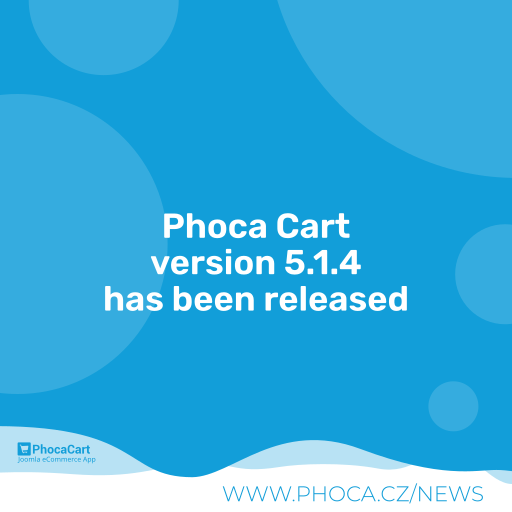
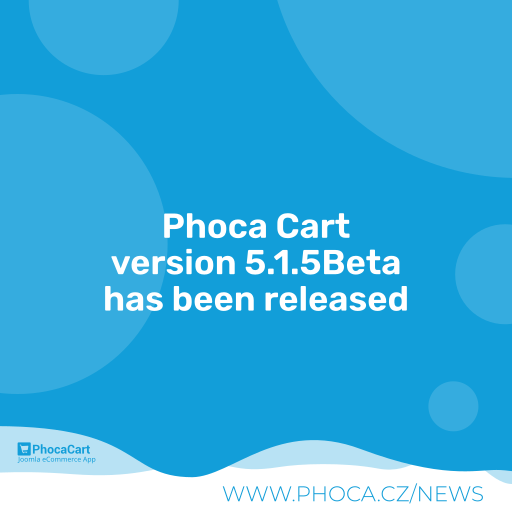
5.1.5Beta

Changed region(s): [[0.2188, 0.4688, 0.7812, 0.5625]]

diff --git a/media/js/phoca/jquery.phocaattribute.min.js b/media/js/phoca/jquery.phocaattribute.min.js
@@ -1,1 +1,1 @@
-function phChangeAttributeType(e){var t=(e=void 0!==e?".phj"+e:"")+".phjProductAttribute";jQuery(e+".phjCleanAttribute").remove(),jQuery(t).each(function(){let a="",i,r="#phItemAttribute"+jQuery(this).data("attribute-id-name"),u="#phItemHiddenAttribute"+jQuery(this).data("attribute-id-name");var e="#phItemBoxAttribute"+jQuery(this).data("attribute-id-name");let d=jQuery(this).data("attribute-type");var s=jQuery(this).data("type-view");let h=jQuery(this).data("type-icon"),n=jQuery(this).data("required");if(3==d?a="phSelectBoxImage":2==d&&(a="phSelectBoxButton"),""!=a){i=u+" ."+a;let t=jQuery(r).attr("name");var c=jQuery('<input type="hidden" name="'+t+'">');c.val(jQuery(r).val()),c.insertAfter(jQuery(r)),jQuery(u).css("display","block"),jQuery(e).css({display:"visible",position:"absolute",clip:"rect(0,0,0,0)"}),jQuery(e).addClass("phj"+s+" phjCleanAttribute"),jQuery(r+" option").each(function(){if(""!=jQuery(this).val()){let e="";3==d?e=jQuery('<div class="'+a+" "+h+'" data-value="'+jQuery(this).val()+'" data-value-alias="'+jQuery(this).data("value-alias")+'" title="'+jQuery(this).text()+'"><img src="'+jQuery(this).data("image")+'" alt="'+jQuery(this).text()+'" /></div>'):2==d&&(e=jQuery('<div class="'+a+" "+h+" color-"+jQuery(this).data("color").replace("#","")+'" style="background-color:'+jQuery(this).data("color")+'" data-value="'+jQuery(this).val()+'" data-value-alias="'+jQuery(this).data("value-alias")+'" title="'+jQuery(this).text()+'">&nbsp;</div>')),jQuery(this).is(":selected")&&e.addClass("on"),jQuery(u).append(e)}}),jQuery(i).on("click",function(e){if(e.preventDefault(),jQuery(this).hasClass("on")){if(1==n)return e.preventDefault(),!1;jQuery(this).removeClass("on"),jQuery('input[name="'+t+'"]').val(""),jQuery(r).val("").change()}else jQuery(i).removeClass("on"),jQuery(this).addClass("on"),jQuery('input[name="'+t+'"]').val(jQuery(this).data("value")),jQuery(r).val(jQuery(this).data("value")).change()})}})}function phAjaxChangeAttributeData(e,t,a,i){var r=Joomla.getOptions("phParamsPC"),u=Joomla.getOptions("phVarsPC").urlCheckoutChangeData,d=[],e=(d.id=e,d.id_item_price="#phItemPriceBox"+t+e,d.id_item_price_gift="#phItemPriceGiftBox"+t+e,d.id_item_stock="#phItemStockBox"+t+e,d.id_item_id="#phItemIdBox"+t+e,d.id_item_name="V"+t+"P"+e,d.product_add_to_cart_item=".phProductAddToCart"+t+e,d.product_add_to_cart_item_icon=".phProductAddToCartIcon"+t+e,d.view=t,d.method_price=r.dynamicChangePrice,d.method_stock=r.dynamicChangeStock,d.method_id=r.dynamicChangeId,d.method_image=r.dynamicChangeImage,d.task="change",d.type="changedata",d.class="ItemQuick"==t||"Pos"==t||"Item"==t?"ph-item-data-box":"ph-category-data-box","id="+d.id+"&"+a+"&"+i+"&class="+d.class+"&typeview="+d.view);phDoRequestMethods(u,e,d)}function phSetAttributeUrl(u){var e=Joomla.getOptions("phParamsPC"),t=Joomla.getOptions("phVarsPC");if(1!=e.dynamicChangeUrlAttributes)return!1;if("item"!=t.view)return!1;t=jQuery(location).attr("hash"),t=phReplaceAll("#","",t);let d=phUrlDeParam(t);t=".phjProductAttribute";let s="",h="",n="";var a=jQuery(t).closest("form").find("input[name=return]");let i="";void 0!==a.val()&&""!=a.val()&&(i=Base64.decode(a.val())),jQuery(t).each(function(){""!=s&&(s+="&");let e=this.id;var t=jQuery(this).data("alias");let a="",i="",r="#phItemHiddenAttribute"+jQuery(this).data("attribute-id-name");1==u?(void 0!==jQuery(this).find(":selected").data("value-alias")&&(a=jQuery(this).find(":selected").data("value-alias"),s=s+"a["+jQuery(this).data("alias")+"]="+a),void 0!==jQuery(this).find(":input:checked").data("value-alias")&&(jQuery.each(jQuery(this).find(":input:checked"),function(){""!=i&&(i+=","),i+=jQuery(this).data("value-alias")}),""!=i)&&(s=s+"a["+jQuery(this).data("alias")+"]="+i)):(void 0!==d.a&&void 0!==t&&void 0!==d.a[t]?(s=s+"a["+jQuery(this).data("alias")+"]="+d.a[t],void 0===(t=d.a[t].split(","))&&0==t.length||(jQuery("#"+e+" option").removeAttr("selected"),jQuery(r+" div").removeClass("on"),jQuery("#"+e+" input").removeAttr("checked"),jQuery(t).each(function(){jQuery("#"+e+" option[data-value-alias='"+this+"']").attr("selected","selected"),jQuery(r+" div[data-value-alias='"+this+"']").addClass("on"),jQuery("#"+e+" input[data-value-alias='"+this+"']").attr("checked","checked"),jQuery("#"+e+" input[data-value-alias='"+this+"']").parent().addClass("active")}))):(void 0!==jQuery(this).find(":selected").data("value-alias")&&(a=jQuery(this).find(":selected").data("value-alias"),s=s+"a["+jQuery(this).data("alias")+"]="+a),void 0!==jQuery(this).find(":input:checked").data("value-alias")&&(jQuery.each(jQuery(this).find(":input:checked"),function(){""!=i&&(i+=","),i+=jQuery(this).data("value-alias")}),""!=i)&&(s=s+"a["+jQuery(this).data("alias")+"]="+i)),h=jQuery(this).data("type-view"),n=jQuery(this).data("product-id"))}),(0!=e.dynamicChangePrice||0!=e.dynamicChangeStock||0!=e.dynamicChangeId||0!=e.dynamicChangeImage&&1!=e.dynamicChangeImage)&&(t=".phjAddToCartV"+h+"P"+n,e=jQuery(t).find("select").serialize(),t=jQuery(t).find(":checkbox").serialize(),phAjaxChangeAttributeData(n,h,e,t)),s.lastIndexOf("&")==s.length-1&&(s=s.slice(0,-1)),(0==u&&""!=s||1==u)&&(s="#"+s,""!=i&&a.val(Base64.encode(i+s)),window.history.pushState({},"",s))}jQuery(document).ready(function(){phChangeAttributeType(),phSetAttributeUrl(0);jQuery(document).on("change","select.phjProductAttribute",function(e){var t=Joomla.getOptions("phParamsPC");if(0==t.dynamicChangePrice&&0==t.dynamicChangeStock&&0==t.dynamicChangeId&&(0==t.dynamicChangeImage||1==t.dynamicChangeImage))return 1==t.dynamicChangeUrlAttributes&&phSetAttributeUrl(1),!1;var t=jQuery(this).data("type-view"),a=jQuery(this).data("product-id"),i=".phjAddToCartV"+t+"P"+a;phAjaxChangeAttributeData(a,t,jQuery(i).find("select").serialize(),jQuery(i).find(":checkbox").serialize()),phSetAttributeUrl(1)});var e=".ph-checkbox-attribute.phjProductAttribute";jQuery(document).on("click",e,function(e){var t=Joomla.getOptions("phParamsPC");if("LABEL"!==e.target.tagName.toUpperCase()){if("svg"==t.theme||"svg"==t.iconType){if("SVG"===e.target.tagName.toUpperCase()||"IMG"===e.target.tagName.toUpperCase())return}else if(!("bs4"!=t.theme&&"bs5"!=t.theme||"SPAN"!==e.target.tagName.toUpperCase()&&"IMG"!==e.target.tagName.toUpperCase()))return;var t=jQuery(this).data("required"),a="#"+jQuery(this).attr("id")+" input:checked",a=jQuery(a).length;if(t&&0==a)return jQuery(e.target).parent().addClass("active"),e.preventDefault(),!1;t="#"+jQuery(this).attr("id")+" input[type='checkbox']",a=jQuery(t);0<a.length&&a.each(function(e){var t=jQuery(this).parent();jQuery(this).is(":checked")?t.addClass("active"):t.removeClass("active")})}}),jQuery(document).on("click",e,function(e){var t=Joomla.getOptions("phParamsPC");if(0!=t.dynamicChangePrice||0!=t.dynamicChangeStock||0!=t.dynamicChangeId||0!=t.dynamicChangeImage&&1!=t.dynamicChangeImage){if("LABEL"!==e.target.tagName.toUpperCase()){if("svg"==t.theme||"svg"==t.iconType){if("SVG"===e.target.tagName.toUpperCase()||"IMG"===e.target.tagName.toUpperCase())return}else if(!("bs4"!=t.theme&&"bs5"!=t.theme||"SPAN"!==e.target.tagName.toUpperCase()&&"IMG"!==e.target.tagName.toUpperCase()))return;var e=jQuery(this).data("product-id"),a=jQuery(this).data("type-view"),i=".phjAddToCartV"+a+"P"+e;phAjaxChangeAttributeData(e,a,jQuery(i).find("select").serialize(),jQuery(i).find(":checkbox").serialize()),phSetAttributeUrl(1)}}else 1==t.dynamicChangeUrlAttributes&&phSetAttributeUrl(1)}),jQuery(".phAOGift").on("input",function(){var t="."+jQuery(this).data("type");if(".phAOGiftType"==t){var a=jQuery(this).data("title"),a=(jQuery(".phAOGiftTitle").text(a),jQuery(this).data("image")),a=(jQuery(".phAOGiftImage").attr("src",a),jQuery(this).data("date"));jQuery(".phAOGiftDate").text(a);let e=jQuery(this).data("description");""!=e&&(e=Base64.decode(e)),jQuery(".phAOGiftDescription").html(e);a=jQuery(this).data("class-name");jQuery(t).attr("class","phAOGiftType ph-gift-voucher-box "+a)}else jQuery(t).text(jQuery(this).val())})});
+function phChangeAttributeType(e){var t=(e=void 0!==e?".phj"+e:"")+".phjProductAttribute";jQuery(e+".phjCleanAttribute").remove(),jQuery(t).each(function(){let a="",i,r="#phItemAttribute"+jQuery(this).data("attribute-id-name"),u="#phItemHiddenAttribute"+jQuery(this).data("attribute-id-name");var e="#phItemBoxAttribute"+jQuery(this).data("attribute-id-name");let s=jQuery(this).data("attribute-type");var d=jQuery(this).data("type-view");let h=jQuery(this).data("type-icon"),n=jQuery(this).data("required");if(3==s?a="phSelectBoxImage":2==s?a="phSelectBoxButton":13==s&&(a="phSelectBoxText"),""!=a){i=u+" ."+a;let t=jQuery(r).attr("name");var l=jQuery('<input type="hidden" name="'+t+'">');l.val(jQuery(r).val()),l.insertAfter(jQuery(r)),jQuery(u).css("display","block"),jQuery(e).css({display:"visible",position:"absolute",clip:"rect(0,0,0,0)"}),jQuery(e).addClass("phj"+d+" phjCleanAttribute"),jQuery(r+" option").each(function(){if(""!=jQuery(this).val()){let e="";3==s?e=jQuery('<div class="'+a+" "+h+'" data-value="'+jQuery(this).val()+'" data-value-alias="'+jQuery(this).data("value-alias")+'" title="'+jQuery(this).text()+'"><img src="'+jQuery(this).data("image")+'" alt="'+jQuery(this).text()+'" /></div>'):2==s?e=jQuery('<div class="'+a+" "+h+" color-"+jQuery(this).data("color").replace("#","")+'" style="background-color:'+jQuery(this).data("color")+'" data-value="'+jQuery(this).val()+'" data-value-alias="'+jQuery(this).data("value-alias")+'" title="'+jQuery(this).text()+'">&nbsp;</div>'):13==s&&(e=jQuery('<div class="'+a+" "+h+'" data-value="'+jQuery(this).val()+'" data-value-alias="'+jQuery(this).data("value-alias")+'" title="'+jQuery(this).text()+'">'+jQuery(this).text()+"</div>")),jQuery(this).is(":selected")&&e.addClass("on"),jQuery(u).append(e)}}),jQuery(i).on("click",function(e){if(e.preventDefault(),jQuery(this).hasClass("on")){if(1==n)return e.preventDefault(),!1;jQuery(this).removeClass("on"),jQuery('input[name="'+t+'"]').val(""),jQuery(r).val("").change()}else jQuery(i).removeClass("on"),jQuery(this).addClass("on"),jQuery('input[name="'+t+'"]').val(jQuery(this).data("value")),jQuery(r).val(jQuery(this).data("value")).change()})}})}function phAjaxChangeAttributeData(e,t,a,i){var r=Joomla.getOptions("phParamsPC"),u=Joomla.getOptions("phVarsPC").urlCheckoutChangeData,s=[],e=(s.id=e,s.id_item_price="#phItemPriceBox"+t+e,s.id_item_price_gift="#phItemPriceGiftBox"+t+e,s.id_item_stock="#phItemStockBox"+t+e,s.id_item_id="#phItemIdBox"+t+e,s.id_item_name="V"+t+"P"+e,s.product_add_to_cart_item=".phProductAddToCart"+t+e,s.product_add_to_cart_item_icon=".phProductAddToCartIcon"+t+e,s.view=t,s.method_price=r.dynamicChangePrice,s.method_stock=r.dynamicChangeStock,s.method_id=r.dynamicChangeId,s.method_image=r.dynamicChangeImage,s.task="change",s.type="changedata",s.class="ItemQuick"==t||"Pos"==t||"Item"==t?"ph-item-data-box":"ph-category-data-box","id="+s.id+"&"+a+"&"+i+"&class="+s.class+"&typeview="+s.view);phDoRequestMethods(u,e,s)}function phSetAttributeUrl(u){var e=Joomla.getOptions("phParamsPC"),t=Joomla.getOptions("phVarsPC");if(1!=e.dynamicChangeUrlAttributes)return!1;if("item"!=t.view)return!1;t=jQuery(location).attr("hash"),t=phReplaceAll("#","",t);let s=phUrlDeParam(t);t=".phjProductAttribute";let d="",h="",n="";var a=jQuery(t).closest("form").find("input[name=return]");let i="";void 0!==a.val()&&""!=a.val()&&(i=Base64.decode(a.val())),jQuery(t).each(function(){""!=d&&(d+="&");let e=this.id;var t=jQuery(this).data("alias");let a="",i="",r="#phItemHiddenAttribute"+jQuery(this).data("attribute-id-name");1==u?(void 0!==jQuery(this).find(":selected").data("value-alias")&&(a=jQuery(this).find(":selected").data("value-alias"),d=d+"a["+jQuery(this).data("alias")+"]="+a),void 0!==jQuery(this).find(":input:checked").data("value-alias")&&(jQuery.each(jQuery(this).find(":input:checked"),function(){""!=i&&(i+=","),i+=jQuery(this).data("value-alias")}),""!=i)&&(d=d+"a["+jQuery(this).data("alias")+"]="+i)):(void 0!==s.a&&void 0!==t&&void 0!==s.a[t]?(d=d+"a["+jQuery(this).data("alias")+"]="+s.a[t],void 0===(t=s.a[t].split(","))&&0==t.length||(jQuery("#"+e+" option").removeAttr("selected"),jQuery(r+" div").removeClass("on"),jQuery("#"+e+" input").removeAttr("checked"),jQuery(t).each(function(){jQuery("#"+e+" option[data-value-alias='"+this+"']").attr("selected","selected"),jQuery(r+" div[data-value-alias='"+this+"']").addClass("on"),jQuery("#"+e+" input[data-value-alias='"+this+"']").attr("checked","checked"),jQuery("#"+e+" input[data-value-alias='"+this+"']").parent().addClass("active")}))):(void 0!==jQuery(this).find(":selected").data("value-alias")&&(a=jQuery(this).find(":selected").data("value-alias"),d=d+"a["+jQuery(this).data("alias")+"]="+a),void 0!==jQuery(this).find(":input:checked").data("value-alias")&&(jQuery.each(jQuery(this).find(":input:checked"),function(){""!=i&&(i+=","),i+=jQuery(this).data("value-alias")}),""!=i)&&(d=d+"a["+jQuery(this).data("alias")+"]="+i)),h=jQuery(this).data("type-view"),n=jQuery(this).data("product-id"))}),(0!=e.dynamicChangePrice||0!=e.dynamicChangeStock||0!=e.dynamicChangeId||0!=e.dynamicChangeImage&&1!=e.dynamicChangeImage)&&(t=".phjAddToCartV"+h+"P"+n,e=jQuery(t).find("select").serialize(),t=jQuery(t).find(":checkbox").serialize(),phAjaxChangeAttributeData(n,h,e,t)),d.lastIndexOf("&")==d.length-1&&(d=d.slice(0,-1)),(0==u&&""!=d||1==u)&&(d="#"+d,""!=i&&a.val(Base64.encode(i+d)),window.history.pushState({},"",d))}jQuery(document).ready(function(){phChangeAttributeType(),phSetAttributeUrl(0);jQuery(document).on("change","select.phjProductAttribute",function(e){var t=Joomla.getOptions("phParamsPC");if(0==t.dynamicChangePrice&&0==t.dynamicChangeStock&&0==t.dynamicChangeId&&(0==t.dynamicChangeImage||1==t.dynamicChangeImage))return 1==t.dynamicChangeUrlAttributes&&phSetAttributeUrl(1),!1;var t=jQuery(this).data("type-view"),a=jQuery(this).data("product-id"),i=".phjAddToCartV"+t+"P"+a;phAjaxChangeAttributeData(a,t,jQuery(i).find("select").serialize(),jQuery(i).find(":checkbox").serialize()),phSetAttributeUrl(1)});var e=".ph-checkbox-attribute.phjProductAttribute";jQuery(document).on("click",e,function(e){var t=Joomla.getOptions("phParamsPC");if("LABEL"!==e.target.tagName.toUpperCase()){if("svg"==t.theme||"svg"==t.iconType){if("SVG"===e.target.tagName.toUpperCase()||"IMG"===e.target.tagName.toUpperCase())return}else if(!("bs4"!=t.theme&&"bs5"!=t.theme||"SPAN"!==e.target.tagName.toUpperCase()&&"IMG"!==e.target.tagName.toUpperCase()))return;var t=jQuery(this).data("required"),a="#"+jQuery(this).attr("id")+" input:checked",a=jQuery(a).length;if(t&&0==a)return jQuery(e.target).parent().addClass("active"),e.preventDefault(),!1;t="#"+jQuery(this).attr("id")+" input[type='checkbox']",a=jQuery(t);0<a.length&&a.each(function(e){var t=jQuery(this).parent();jQuery(this).is(":checked")?t.addClass("active"):t.removeClass("active")})}}),jQuery(document).on("click",e,function(e){var t=Joomla.getOptions("phParamsPC");if(0!=t.dynamicChangePrice||0!=t.dynamicChangeStock||0!=t.dynamicChangeId||0!=t.dynamicChangeImage&&1!=t.dynamicChangeImage){if("LABEL"!==e.target.tagName.toUpperCase()){if("svg"==t.theme||"svg"==t.iconType){if("SVG"===e.target.tagName.toUpperCase()||"IMG"===e.target.tagName.toUpperCase())return}else if(!("bs4"!=t.theme&&"bs5"!=t.theme||"SPAN"!==e.target.tagName.toUpperCase()&&"IMG"!==e.target.tagName.toUpperCase()))return;var e=jQuery(this).data("product-id"),a=jQuery(this).data("type-view"),i=".phjAddToCartV"+a+"P"+e;phAjaxChangeAttributeData(e,a,jQuery(i).find("select").serialize(),jQuery(i).find(":checkbox").serialize()),phSetAttributeUrl(1)}}else 1==t.dynamicChangeUrlAttributes&&phSetAttributeUrl(1)}),jQuery(".phAOGift").on("input",function(){var t="."+jQuery(this).data("type");if(".phAOGiftType"==t){var a=jQuery(this).data("title"),a=(jQuery(".phAOGiftTitle").text(a),jQuery(this).data("image")),a=(jQuery(".phAOGiftImage").attr("src",a),jQuery(this).data("date"));jQuery(".phAOGiftDate").text(a);let e=jQuery(this).data("description");""!=e&&(e=Base64.decode(e)),jQuery(".phAOGiftDescription").html(e);a=jQuery(this).data("class-name");jQuery(t).attr("class","phAOGiftType ph-gift-voucher-box "+a)}else jQuery(t).text(jQuery(this).val())})});

diff --git a/media/js/phoca/jquery.phocaattribute.js b/media/js/phoca/jquery.phocaattribute.js
@@ -36,6 +36,8 @@ function phChangeAttributeType(typeView) {
 			phClass			= 'phSelectBoxImage';// Image
 		} else if (phType == 2) {
 			phClass			= 'phSelectBoxButton';// Color
+		} else if (phType == 13) {
+			phClass			= 'phSelectBoxText';// Text
 		}
 
 		// Transform only attributes which are select box image - 3 or select box color - 2
@@ -71,6 +73,9 @@ function phChangeAttributeType(typeView) {
 						// Color
 						phSBtn = jQuery('<div class="'+ phClass +' '+ phTypeIcon + ' color-' + jQuery(this).data('color').replace('#', '')  +'" style="background-color:' + jQuery(this).data('color') +'" data-value="'+ jQuery(this).val() +'" data-value-alias="'+ jQuery(this).data('value-alias') +'" title="'+ jQuery(this).text() +'">'+ '&nbsp;' +'</div>');
 
+					} else if (phType == 13) {
+						// Text
+						phSBtn = jQuery('<div class="'+ phClass	+' '+ phTypeIcon +'" data-value="'+ jQuery(this).val() +'" data-value-alias="'+ jQuery(this).data('value-alias') +'" title="'+ jQuery(this).text() +'">' + jQuery(this).text() + '</div>');
 					}
 
 

diff --git a/media/css/main.css b/media/css/main.css
@@ -1303,6 +1303,48 @@ a.phSelectBoxImage.on:focus {
     text-decoration: none;
 }
 
+
+/*
+.phSelectBoxText.on:after {
+    position: absolute;
+    top: 30%;
+    left: 40%;
+    line-height: 1;
+    -webkit-font-smoothing: antialiased;
+    box-sizing: content-box;
+    border-radius: 2px;
+    text-decoration: none;
+    color: var(--ph-warning);
+    text-shadow: -2px 0 #fff, 0 2px #fff, 2px 0 #fff, 0 -2px #fff;
+}*/
+
+.phSelectBoxText {
+    border: 2px solid transparent;
+    display: inline-block;
+    cursor: pointer;
+    padding: 0.25em;
+    margin: 3px;
+}
+.phSelectBoxText.on {
+    border: 2px solid currentColor;
+}
+
+.phSelectBoxText:hover,
+.phSelectBoxText.on:hover {
+    border: 2px solid currentColor;
+}
+
+a.phSelectBoxText:hover,
+a.phSelectBoxText.on:hover,
+a.phSelectBoxText:visited,
+a.phSelectBoxText.on:visited,
+a.phSelectBoxText:active,
+a.phSelectBoxText.on:active,
+a.phSelectBoxText:focus,
+a.phSelectBoxText.on:focus {
+    text-decoration: none;
+}
+
 .ph-question-message {
 }
 

diff --git a/site/layouts/attribute_options_box.php b/site/layouts/attribute_options_box.php
@@ -51,8 +51,8 @@ if (!empty($d['attr_options']) && $d['hide_attributes'] != 1) {
 			$d2['required']				= $req;
 
             // EDIT PHOCACARTATTRIBUTE ATTRIBUTETYPE
-			if ($v->type == 1 || $v->type == 2 || $v->type == 3) {
-				echo $layoutAtOS->render($d2);// SELECTBOX, SELECTBOX COLOR, SELECTBOX IMAGE
+			if ($v->type == 1 || $v->type == 2 || $v->type == 3 || $v->type == 13) {
+				echo $layoutAtOS->render($d2);// SELECTBOX, SELECTBOX COLOR, SELECTBOX IMAGE, SELECTBOX TEXT
 			} else if ($v->type == 4 || $v->type == 5 || $v->type == 6) {
 				echo $layoutAtOC->render($d2);// CHECKBOX, CHECKBOX COLOR, CHECKBOX COLOR
 			} else if ($v->type == 7 || $v->type == 8 || $v->type == 9 || $v->type == 10 || $v->type == 11 || $v->type == 12) {
@@ -62,9 +62,9 @@ if (!empty($d['attr_options']) && $d['hide_attributes'] != 1) {
 			}
 		}
 
-		// SELECTBOX COLOR, SELECTBOX IMAGE
+		// SELECTBOX COLOR, SELECTBOX IMAGE SELECTBOX TEXT
 		// OBSOLETE
-		/*if ($v->type == 2 || $v->type == 3) {
+		/*if ($v->type == 2 || $v->type == 3 || $v->type == 13) {
 			echo PhocacartRenderJs::renderPhAttribute SelectBoxInitialize((int)$v->id, (int)$v->type, $d['typeview']);
 		}*/
 

diff --git a/site/layouts/attribute_options_select.php b/site/layouts/attribute_options_select.php
@@ -82,6 +82,11 @@ foreach ($v->options as $k2 => $v2) {
 		$attrO		.= ' data-image="'.strip_tags($linkI).'"';
 	}
 
+	// SELECTBOX TEXT
+	if ($v->type == 13 && isset($v2->title)) {
+		$attrO		.= ' data-text="'.strip_tags(htmlspecialchars($v2->title)).'"';
+	}
+
 	// SELECTED SOME VALUE?
 	if ($v2->default_value == 1) {
 		$attrO		.= ' selected="seleced"';

diff --git a/README.MD b/README.MD
@@ -132,7 +132,7 @@ Phoca Cart is e-commerce extension - powerful shopping cart for Joomla! CMS. Pho
 
 ## Version (Joomla! 5.x)
 
-5.1.4
+5.1.5Beta
 
 
 
